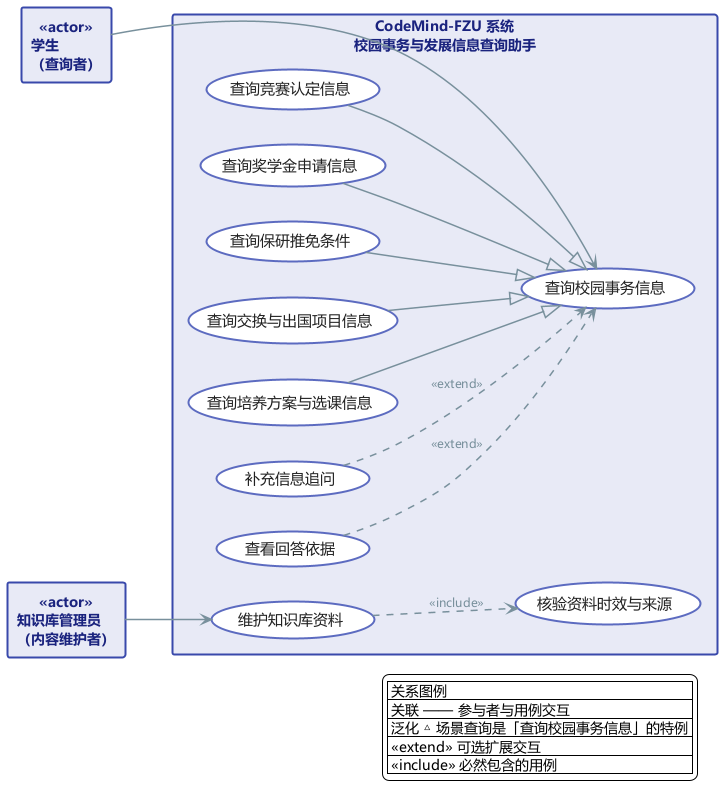
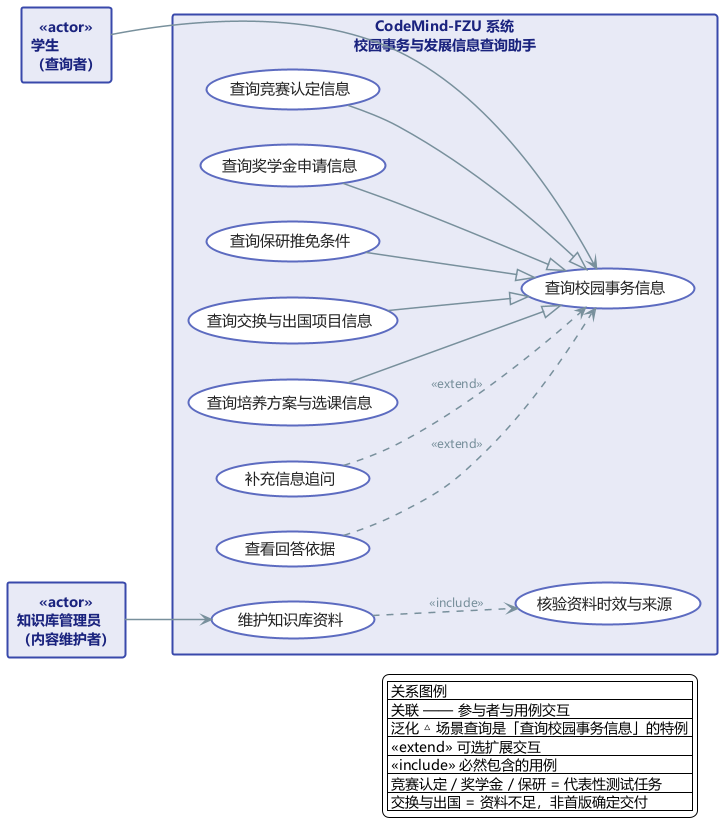
docs: 按审核意见修订 UML 用例设计（颜俊宇）
- 统一业务范围口径：竞赛认定/奖学金/保研为三个代表性测试任务；交换与出国属于升学与就业方向下具体事项、资料不足，不作为首版确定交付
- 完善知识库维护流程（UC-06/UC-07）：补充双索引构建、质量闸门、离线测试、人工审核与原子切换发布，发布失败保留上一版可用索引
- 明确用例数量：1 个抽象基用例 + 9 个具体用例
- 调整 UC-03 保研表述：'明确自身差距与准备方向' 改为 '了解自身条件与政策要求的差异'

diff --git a/docs/assignment-02/system-design/diagrams/uml/use-case/系统用例规约_颜俊宇_v3.md b/docs/assignment-02/system-design/diagrams/uml/use-case/系统用例规约_颜俊宇_v3.md
@@ -2,7 +2,7 @@
 
 **项目**：CodeMind-FZU（福州大学计算机学院本科生的校园事务与发展信息查询助手）
 **负责人**：颜俊宇
-**版本**：v3.0
+**版本**：v3.1
 **日期**：2026-11-08
 
 ---
@@ -11,30 +11,36 @@
 
 本系统（CodeMind-FZU）的职责边界是：**为学院本科生提供有官方来源、可追溯的校园事务与发展政策信息查询**。系统不替代学校/学院的官方发布渠道，也不做个性化升学规划、个人成长档案、动态机会推送及经验帖类 UGC 内容。
 
+整体规划五大业务方向：政策与事务办理、升学与就业发展、竞赛与科研信息、学院资源导航、个人成长档案与长期规划。**首版（v1.0）优先支持前四个方向中有官方资料依据的查询与导航**；第五个方向（个人成长档案与长期规划）为后续迭代，不纳入首版必要交付。
+
+**三个代表性测试任务**——竞赛认定（类别及证明材料）、奖学金申请（条件与流程）、推免基本条件——仅用于验证共用的 Agent 流程，不代表业务方向数量。**交换与出国交流属于「升学与就业发展」方向下的具体事项，目前资料不足，不作为首版确定交付**。
+
 ## 二、参与者（角色）
 
 | 参与者 | 角色定位 | 说明 |
 |---|---|---|
 | **学生（查询者）** | 查询者 | 学院本科生，以自然语言查询事务与政策信息，是系统的核心用户 |
-| **知识库管理员（内容维护者）** | 内容维护者 | 负责领域知识库资料的收录、更新、归档，以及来源与时效的核验 |
+| **知识库管理员（内容维护者）** | 内容维护者 | 负责领域知识库资料的收录、更新、归档，以及来源与时效的核验、索引构建与发布 |
 
 > 参与者是「角色」而非「部门」。同一自然人可扮演不同角色；系统不依赖部门组织，只依赖角色权限。
 
 ## 三、用例清单（用户目标层）
 
-| 编号 | 用例名称 | 参与者 | 优先级 |
+| 编号 | 用例名称 | 参与者 | 首版定位 |
 |---|---|---|---|
-| UC-01 | 查询竞赛认定信息 | 学生（查询者） | 高 |
-| UC-02 | 查询奖学金申请信息 | 学生（查询者） | 高 |
-| UC-03 | 查询保研推免条件 | 学生（查询者） | 高 |
-| UC-04 | 查询交换与出国项目信息 | 学生（查询者） | 中 |
-| UC-05 | 查询培养方案与选课信息 | 学生（查询者） | 中 |
-| UC-06 | 维护知识库资料 | 知识库管理员 | 高 |
-| UC-07 | 核验资料时效与来源 | 知识库管理员 | 高 |
-| UC-08 | 补充信息追问 | 学生（查询者） | 中 |
-| UC-09 | 查看回答依据 | 学生（查询者） | 中 |
+| UC-01 | 查询竞赛认定信息 | 学生（查询者） | 代表性测试任务 |
+| UC-02 | 查询奖学金申请信息 | 学生（查询者） | 代表性测试任务 |
+| UC-03 | 查询保研推免条件 | 学生（查询者） | 代表性测试任务 |
+| UC-04 | 查询交换与出国项目信息 | 学生（查询者） | 资料不足，非首版确定交付 |
+| UC-05 | 查询培养方案与选课信息 | 学生（查询者） | 首版优先查询 |
+| UC-06 | 维护知识库资料 | 知识库管理员 | 首版核心 |
+| UC-07 | 核验资料时效与来源 | 知识库管理员 | 首版核心 |
+| UC-08 | 补充信息追问 | 学生（查询者） | 可选扩展交互 |
+| UC-09 | 查看回答依据 | 学生（查询者） | 可选扩展交互 |
 
-> 说明：UC-08「补充信息追问」、UC-09「查看回答依据」是查询类用例的**扩展用例**（`extend`），在特定条件下从基用例「查询校园事务信息」扩展，属于可选交互。
+> 说明一：UC-08「补充信息追问」、UC-09「查看回答依据」是查询类用例的**扩展用例**（`extend`），在特定条件下从基用例「查询校园事务信息」扩展，属于可选交互。
+>
+> 说明二：UC-01、UC-02、UC-03 是验证共用 Agent 流程的**三个代表性测试任务**；UC-04「交换与出国项目信息」属于升学与就业方向下的具体事项，当前资料不足，不作为首版确定交付，用例保留用于表达完整目标范围。
 
 ---
 
@@ -70,11 +76,11 @@
   2. 系统检索推免政策与学院实施细则；
   3. 系统核验资料时效（区分「最新政策」与「历史政策」）；
   4. 系统展示成绩门槛、加分项、关键时间节点，并附来源；
-  5. 学生明确自身差距与准备方向。
+  5. 学生了解自身条件与政策要求的差异。
 - **扩展流程**：
   - **1a. 信息不足**：缺少年级/专业/成绩排名 → 追问后继续。
   - **3a. 政策未更新**：仅有历史政策 → 明确标注「可能已更新，以最新通知为准」。
-- **后置条件**：学生获得保研硬性条件的明确答案及来源。
+- **后置条件**：学生获得保研硬性条件的明确答案及来源，并了解自身条件与政策要求的差异。
 
 ### UC-06 维护知识库资料
 
@@ -85,12 +91,16 @@
 - **主成功场景**：
   1. 管理员新增、更新或归档资料；
   2. 管理员补充资料的来源部门、发布日期、链接；
-  3. 系统保存资料并记录版本（过期资料标记为历史参考，不删除）；
-  4. 管理员执行「核验资料时效与来源」（UC-07，必然包含）；
-  5. 资料进入可检索状态。
+  3. 管理员执行「核验资料时效与来源」（UC-07，必然包含）；
+  4. 系统为通过核验的资料构建索引（Chroma 与 BM25 双索引，统一 versionId=vN）；
+  5. 系统执行质量闸门（QualityGate）与离线 PoC 测试（PoCTestSuite），确认双索引均通过（PASS）；
+  6. 人工审核通过后，由 IndexPublisher 提交版本，VersionRegistry 原子切换活动版本；
+  7. 资料随完整索引版本正式发布，进入 Agent 可检索状态。
 - **扩展流程**：
   - **1a. 资料冲突**：新资料与旧资料内容冲突 → 保留两个版本，标注差异与时效，不直接覆盖。
-- **后置条件**：知识库内容更新，且资料带核验状态与时效标记，可被查询类用例检索。
+  - **5a. 质量/测试未通过**：质量闸门或 PoC 测试未通过 → 发布中止，构建中的索引不进入 Agent，保留上一版完整可用索引。
+  - **6a. 发布失败**：版本切换失败 → 回滚并保留上一版活动索引，AgentQueryGateway 始终只读取完整发布版本。
+- **后置条件**：只有通过审核、测试通过的完整索引版本才切换上线；知识库内容更新且可被查询类用例检索，失败时上一版索引仍可用。
 
 ### UC-07 核验资料时效与来源
 
@@ -102,7 +112,7 @@
   2. 管理员核验资料发布日期与适用时间范围；
   3. 管理员标记核验状态（已核验 / 待核验 / 已过期）；
   4. 系统更新资料核验状态，过期资料标记为历史参考。
-- **后置条件**：资料具有明确的核验状态与时效标记，支撑「回答可追溯」原则。
+- **后置条件**：资料具有明确的核验状态与时效标记，作为后续索引构建与发布的前置输入，支撑「回答可追溯」原则。
 
 ### UC-08 补充信息追问（扩展用例）
 
@@ -133,9 +143,16 @@
 ## 五、关系说明
 
 - **关联**：学生（查询者）与「查询校园事务信息」关联；知识库管理员与「维护知识库资料」关联。
-- **泛化**：四大核心场景查询与「查询培养方案与选课信息」是「查询校园事务信息」的特例（空心三角实线）。
+- **泛化**：5 个查询类用例（竞赛认定、奖学金申请、保研推免条件、交换与出国项目信息、培养方案与选课信息）是抽象基用例「查询校园事务信息」的特例（空心三角实线）。
 - **扩展（extend）**：「补充信息追问」「查看回答依据」在特定条件下从「查询校园事务信息」扩展，属于可选交互。
-- **包含（include）**：「维护知识库资料」**必然包含**「核验资料时效与来源」——核验是维护的必要环节。
+- **包含（include）**：「维护知识库资料」**必然包含**「核验资料时效与来源」——核验是维护与索引发布流程的必要环节。
+
+### 用例数量说明
+
+用例图共包含 **1 个抽象基用例 + 9 个具体用例**：
+
+- 抽象基用例：`查询校园事务信息`（仅用于统一 5 个查询类用例的泛化关系，不独立计数为交付功能）；
+- 具体用例 9 个：UC-01 ~ UC-09，其中学生侧 7 个（5 个查询目标 + 2 个扩展交互）、知识库管理员侧 2 个。
 
 ---
 

diff --git a/docs/assignment-02/system-design/diagrams/uml/use-case/README.md b/docs/assignment-02/system-design/diagrams/uml/use-case/README.md
@@ -1,6 +1,32 @@
 # UML 用例设计
 
-负责人：颜俊宇。上传用例图源文件、PNG/SVG 导出图，以及参与者、用例和系统边界说明。
+**负责人**：颜俊宇
+
+## 内容
+
+本目录包含 CodeMind-FZU 系统的 UML 用例设计成果（v3.1）。
+
+建模遵循原则：**先定边界 → 再定参与者（角色）→ 用例 = 用户目标（用户目标层）→ 关系能少则少**，同时覆盖作业要求的全部交互。
+
+- 系统边界：为学院本科生提供有官方来源、可追溯的校园事务与发展政策信息查询；
+- 参与者（角色）：学生（查询者）、知识库管理员（内容维护者）；
+- 用例：**1 个抽象基用例 + 9 个具体用例**（见下方「用例数量说明」）；
+- 关系：5 条泛化 + 2 条 extend + 1 条 include；
+- 关键用例已配规约。
+
+## 业务范围口径（对照 PR #2、#3）
+
+- 整体五大业务方向：政策与事务办理、升学与就业发展、竞赛与科研信息、学院资源导航、个人成长档案与长期规划；
+- 首版优先支持前四个方向中有官方资料依据的查询与导航，第五个方向为后续迭代；
+- **三个代表性测试任务**：竞赛认定、奖学金申请、推免基本条件，仅用于验证共用 Agent 流程，不代表业务方向数量；
+- **交换与出国交流**属于「升学与就业发展」方向下的具体事项，资料不足，不作为首版确定交付。
+
+## 用例数量说明
+
+用例图共 **1 个抽象基用例 + 9 个具体用例**：
+
+- 抽象基用例 `查询校园事务信息`：仅用于统一 5 个查询类用例的泛化关系，不独立计数为交付功能；
+- 具体用例 9 个（UC-01 ~ UC-09）：学生侧 7 个（5 个查询目标 + 2 个扩展交互）、知识库管理员侧 2 个。
 
 ## 文件清单
 
@@ -9,11 +35,11 @@
 | `系统用例图_颜俊宇_v3.puml` | 用例图可编辑源文件（PlantUML） |
 | `系统用例图_颜俊宇_v3.png` | 用例图导出图片（PNG） |
 | `系统用例图_颜俊宇_v3.svg` | 用例图导出矢量图（SVG） |
-| `系统用例规约_颜俊宇_v3.md` | 系统边界、参与者、用例清单与关键用例规约 |
+| `系统用例规约_颜俊宇_v3.md` | 边界、参与者、用例清单、关键用例规约 |
 
 ## 设计要点
 
-- **参与者（角色）**：学生（查询者）、知识库管理员（内容维护者）。
-- **系统边界**：为学院本科生提供有官方来源、可追溯的校园事务与发展政策信息查询。
-- **用例（用户目标层）**：9 个，覆盖四大核心场景（竞赛认定、奖学金申请、保研条件、交换与出国信息查询）及培养方案查询、知识库维护，并体现补充信息追问、查看回答依据两个扩展交互。
-- **关系**：5 条泛化 + 2 条 extend + 1 条 include，遵循「关系能少则少」原则。
+- **参与者是角色，不是部门**：学生（查询者）、知识库管理员（内容维护者）。
+- **用例是目标，不是功能点**：5 个查询类用例是「查询校园事务信息」的特例（泛化）；「补充信息追问」「查看回答依据」是可选扩展交互（extend）。
+- **关系克制**：泛化 5 条（查询特例）、extend 2 条（可选交互）、include 1 条（核验是维护与索引发布的必然环节）。
+- **知识库维护闭环**：核验 → 双索引构建 → 质量闸门 → 离线测试 → 人工审核 → 原子切换发布，失败保留上一版可用索引。
